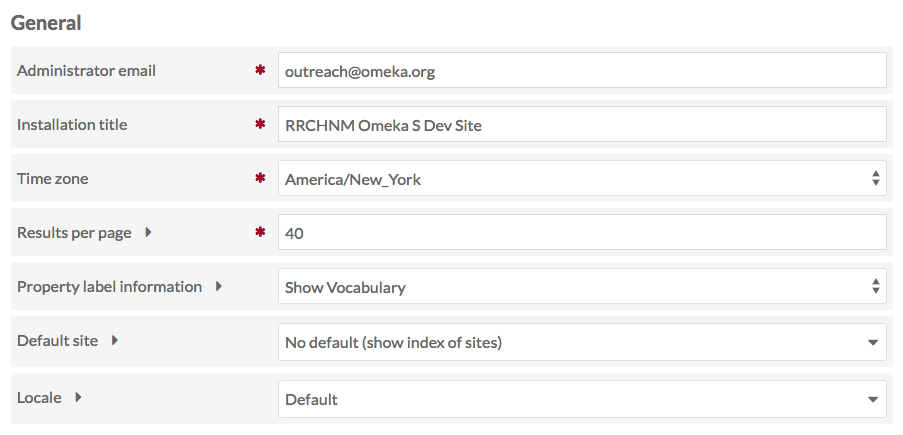
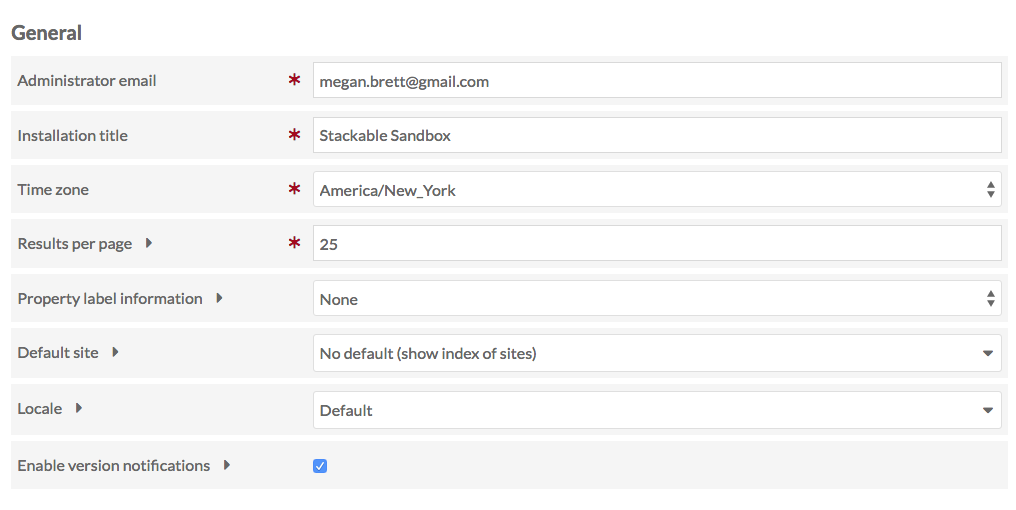
settings update
adding in version notifications

diff --git a/docs/admin/settings.md b/docs/admin/settings.md
@@ -14,23 +14,26 @@ The settings are as follows divided into two sections: General and Security sett
 
 ![General settings with fields as described below](/admin/adminfiles/settings_general.png)
 
-- *Administrator Email* sets the email address for the installation administrator. 
+*Administrator Email* sets the email address for the installation administrator. 
 Note that some hosting setups may require that the domain name for the administrator email match the domain name of the installation (if your domain is yourinstall.org, the administrator email must be user@yourinstall.org).  
 
-- *Installation Title* allows you to change the title for the OmekaS installation overall. This is what appears in the upper left-hand corner of the admin dashboard.
+*Installation Title* allows you to change the title for the OmekaS installation overall. This is what appears in the upper left-hand corner of the admin dashboard.
 
-- *Time Zone* sets the default time zone for the install, which will be used for error logging messages and to determine creation dates for items, item sets, and other materials on the install. This is a dropdown menu. 
+*Time Zone* sets the default time zone for the install, which will be used for error logging messages and to determine creation dates for items, item sets, and other materials on the install. This is a dropdown menu. 
 
-- *Results per page* changes the number of results (items, item sets, media) displayed per page when browsing in either public or admin sides of the installation.
+*Results per page* changes the number of results (items, item sets, media) displayed per page when browsing in either public or admin sides of the installation.
 
-- *Property label information* determines what is displayed next to each property when users are editing items and item sets. 
-     * By default, this is set to *none*, meaning that only the property label is displayed.
-     * If *show vocabulary* is selected, the parenthetical statement next to the property name displays the vocabulary used (for example, Dublin Core) 
-     * If *show term* is selected, the parenthetical statement next to the property name displays the vocabulary:term (for example, dc:title). 
+*Property label information* determines what is displayed next to each property when users are editing items and item sets. 
 
-- *Default Site* dropdown gives you control over where people land they navigate to the base url of your install. You can either display a list of all sites in the install (default) or select a specific site from the dropdown, to which people will be redirected.
+* By default, this is set to *none*, meaning that only the property label is displayed.
+* If *show vocabulary* is selected, the parenthetical statement next to the property name displays the vocabulary used (for example, Dublin Core) 
+* If *show term* is selected, the parenthetical statement next to the property name displays the vocabulary:term (for example, dc:title). 
 
-- *Locale* dropdown lets you select from a dropdown of [available languages](https://www.transifex.com/omeka/omeka-s/) for the Omeka S core to change the language in which your installation's admin side displays.
+*Default Site* dropdown gives you control over where people land they navigate to the base url of your install. You can either display a list of all sites in the install (default) or select a specific site from the dropdown, to which people will be redirected.
+
+*Locale* dropdown lets you select from a dropdown of [available languages](https://www.transifex.com/omeka/omeka-s/) for the Omeka S core to change the language in which your installation's admin side displays.
+
+*Enable version notifications* check this box to enable notifications for new versions of Omeka S, themes, and modules. 
 
 ### Security
 
